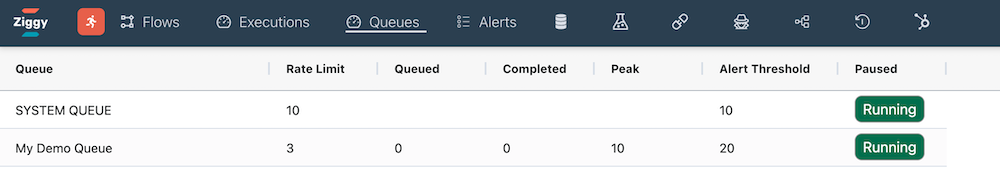
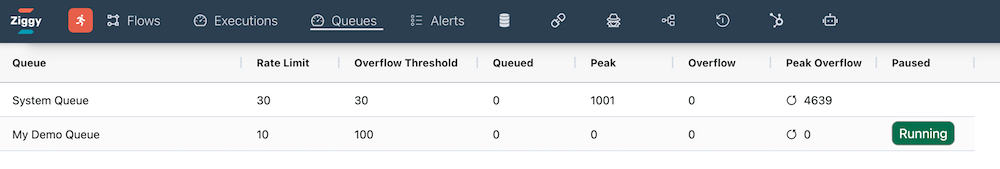
cluster 0.3

diff --git a/sidebars.js b/sidebars.js
@@ -217,8 +217,10 @@ const sidebars = {
           label: 'Ziggy Cluster',
           items: [
             'user-guide/cluster/overview',
+            'user-guide/cluster/levels',
             'user-guide/cluster/monitoring',
             'user-guide/cluster/protected-server',
+            'user-guide/cluster/instance-names',
             'user-guide/cluster/leader',
             'user-guide/cluster/docker-compose',
             'user-guide/cluster/health',

diff --git a/docs/user-guide/Performance-Tuning.md b/docs/user-guide/Performance-Tuning.md
@@ -9,6 +9,8 @@ You can adjust the system performance by adjusting the following values in the [
 - Javascript Worker Pool size
 - You can also run a [multi-server configuration](/user-guide/cluster/overview.md) 
 
+<img src="/img/flows/blocks/core/javscript/js-system-monitor.png" alt="System monitor" width="1200" />
+
 ## Maximum concurrent flows
 The nuber of flows that can execute simultaneously on the server. The default is 10, but you can increase this significantly higher if required. 
 
@@ -22,7 +24,7 @@ If a flow is invoked and the number of currently active flows exceeds Maximum co
 If you are passing in large payloads, then the impact on memory will be related to the size of this payload and the number of flows that are queued. The default value is 100, but you can increase this as you require. 
 
 ## System queue overflow
-Once the system queue is full, waiting flows will be persisted to the database. The throughput will drop somewhat once the overflow is being used. If the overflow size gets too large, it is a clear sign that you need to adjust **Maximum concurrent flows**, **Maximum system queue size** or add another server to balance the load.
+Once the system queue is full, flows will be persisted to the database. The throughput will drop somewhat once the overflow is being used. If the overflow size gets too large, it is a clear sign that you need to adjust **Maximum concurrent flows**, **Maximum system queue size** or add another server to a [Ziggy cluster](docs/user-guide/cluster/overview.md).
 
 ## Javascript workers
 Javascript Block code is executed in isolated worker processes. Ziggy manages a pool of workers. By default the pool size is 20 but you can increase this in the [System Monitor](user-guide/Global-Settings.md#system-monitor).
@@ -31,7 +33,7 @@ Javascript Block code is executed in isolated worker processes. Ziggy manages a 
 There are two ways to monitor the load and the flow throughput.
 
 - In the [System Monitor](user-guide/Global-Settings.md#system-monitor) section of Global Settings.
-- From the Flow Execution Monitor. TODO : link to new page
+- From the [Flow Execution Monitor](/user-guide/flow-execution-monitor.md). 
 
 You can also configure [Alerts](user-guide/Alerts.md) if system resource limits are exceeded.
 

diff --git a/docs/user-guide/cluster/monitoring.md b/docs/user-guide/cluster/monitoring.md
@@ -2,13 +2,27 @@
 title: Monitoring
 ---
 
-There are two ways to monitor the load.
+Monitoring is important for higher load scenarios.
 
-- [Flow Execution Monitor](docs/user-guide/flow-execution-monitor.md) - shows you live flow throughput and key server indicators (CPU, Memory, System Queue status).
-- [System Monitor](user-guide/Global-Settings.md#system-monitor) in Global Settings, which provides more detail.
-- [Queues page](/user-guide/Queuing.md) - shows you key System Queue metrics.
+You should pay particular attention to the System Queue overflow (on the Queues page) as this will slow overall performance and is a sign that performance needs to be adjusted or a Ziggy cluster is required.
 
-Monitoring load and performance tuning is important for higher load scenarios. 
+You should also be aware of Ziggy's [Performance Tuning](/user-guide/Performance-Tuning.md) options.
 
-You should pay particular attention to the System Queue overflow (on the Queues page) as this will slow overall performance and is a sign that performance needs to be adjusted or a Ziggy cluser is required.
+## Flow Execution Monitor
+The [Flow Execution Monitor](docs/user-guide/flow-execution-monitor.md) - shows you live flow throughput and key server indicators (CPU, Memory, System Queue status).
 
+<img src="/img/cluster/flow-monitor.png" alt="flow execution monitor" width="1200" />
+
+## System Monitor
+The [System Monitor](user-guide/Global-Settings.md#system-monitor), in Global Setting provides more detail and allows performance fine-tuning.
+
+<img src="/img/flows/blocks/core/javscript/js-system-monitor.png" alt="System monitor" width="1200" />
+
+## Queues page
+The [Queues page](/user-guide/Queuing.md) shows you key System Queue metrics as well as user queues for rate-limiting.
+
+![Queue monitor](/img/flows/queueing/queues-menu.png)
+
+If the **System Queue** Peak Overflow value is non-zero, this is a sign that some [performance tuning](/user-guide/Performance-Tuning.md) may be needed or another server adding to the cluster.
+
+You can press the icon in the Peak overflow column to reset the peak value after adjusting performance values.

diff --git a/docs/user-guide/cluster/levels.md b/docs/user-guide/cluster/levels.md
@@ -2,17 +2,17 @@
 title: Cluster Levels
 ---
 
-We will refer to these levels in the documentation. They indicate whether your cluster is intended to be highly available. 
+We will refer to these levels in the documentation. They indicate whether your cluster is intended for scale, high-availability or both.
 
 ## Level 1
-Ziggy runs in a Docker container and one of these runs the database and Redis. This is fine for scaling, but it is not suitable for high-availability.
+Ziggy runs in a Docker container. By default, one of these runs the database and Redis. This is fine for scaling, but not for high-availability. If the container running the database and redis fails, Ziggy will fail. 
 
 ## Level 2
-For true high-availability, you will need to operate external clusters for the database and Redis.
+For high-availability, you will need to operate separate clusters for the database and Redis.
 
-You are free to configure these using managed services or your own clusters. You point to these in the `.env` file.
+You can configure these using managed services (AWS RDS, Redis Cluster etc.) or your own clusters. You point to these in the `.env` file on each Ziggy server.
 
-The following entries should be adjusted.
+Your own DevOps person can configure these or our Professional Services can do this for you. Poorly configured services will impact Ziggy's performance, so ensure that these services are 'close' to your Ziggy servers.
 
 ```dotenv
 APP_DATABASE=postgresql://ziggy:ziggy@db:5432/ziggy

diff --git a/docs/user-guide/cluster/protected-server.md b/docs/user-guide/cluster/protected-server.md
@@ -2,9 +2,9 @@
 title: Protected Server
 ---
 
-If you are running a [**Level 1 cluster**](/user-guide/cluster/levels.md), one of your server containers will be running the database and Redis servers. In this case, you can add the environment variable (in the `docker-compose` file or the `.env` file) `NO_PROCESS_FLOWS=true`.
+If you are running a [**Level 1 cluster**](/user-guide/cluster/levels.md), one of your server containers will be running the database and Redis servers. In this case, you can add the environment variable `NO_PROCESS_FLOWS=true` in the `docker-compose` file or the `.env` file.
 
-This is only required for high load scenarios and usually when 3 or more servers in your cluster. It will prevent that server from executing flows, leaving it free for the database and Redis.
+This is only required for high load scenarios and usually when 3 or more servers in your cluster. It will prevent that server from executing flows, leaving resources free for the database and Redis.
 
 If you are running a [**Level 2 cluster**](/user-guide/cluster/levels.md) (database and Redis are in external clusters of their own) then you do not need to protect your servers.
 

diff --git a/docs/user-guide/flow-execution-monitor.md b/docs/user-guide/flow-execution-monitor.md
@@ -2,4 +2,14 @@
 title: Flow Execution Monitor
 ---
 
-TODO
+Open the Flow Execution Monitor by pressing the orange icon in the left of the nav bar.
+
+<img src="/img/cluster/flow-monitor.png" alt="flow execution monitor" width="1200" />
+
+This dashboard shows the following information that is refreshed every second. 
+
+- **Running** - the currently executing flows.
+- **Queued** - the currently queued flows. The database icon shows the current size of the overflow table. Non-zero values are an indicator that [performance tuning](/user-guide/Performance-Tuning.md) may be required or another server should be added to the cluster.
+- **Aggregated**  - the two gray boxes at the bottom show, for each flow, the total nuber of running and queued flows and when the oldest flow was created.
+- **Server Performance** - in the right column are all important server performance indicators. If you are running a cluster, you can switch between servers.
+

diff --git a/docs/user-guide/cluster/instance-names.md b/docs/user-guide/cluster/instance-names.md
@@ -1,0 +1,15 @@
+---
+title: Instance Naming
+---
+
+You can optionally provide instance names in the `.env` file on each of your servers. This is the recommended approach for user-friendly naming. 
+
+`SERVER_NAME=Instance2`
+
+If you have provided a name in the `.env` file, then this will be shown in the Ziggy UI. Otherwise, it will display the AWS/Azure instance name. 
+
+[System Monitor](user-guide/Global-Settings.md#system-monitor)
+<img src="/img/flows/blocks/core/javscript/js-system-monitor.png" alt="System monitor" width="1200" />
+
+[Flow Execution Monitor](docs/user-guide/flow-execution-monitor.md)
+<img src="/img/cluster/flow-monitor.png" alt="flow execution monitor" width="1200" />

diff --git a/docs/user-guide/cluster/overview.md b/docs/user-guide/cluster/overview.md
@@ -2,7 +2,9 @@
 title: Overview
 ---
 
-You can create a Ziggy cluster to address your scalability and redundancy needs.
+A Ziggy cluster addresses your scalability and high availability requirements.
+
+<img src="/img/cluster/flow-monitor.png" alt="flow execution monitor" width="800" />
 
 ## Before you create your cluster
 You should be familiar with the performance tuning settings before you add instances. This will help you tune your instances which still applies when running multiple servers.

diff --git a/docs/user-guide/Queuing.md b/docs/user-guide/Queuing.md
@@ -49,6 +49,7 @@ You can access Queue stats from Queue menu bar. This updates every 2 seconds so 
 
 ![Queue monitor](/img/flows/queueing/queues-menu.png)
 
+You can press the icon in the Peak overflow column to reset the peak value after adjusting performance values.
 
 ## Security & Performance
 
